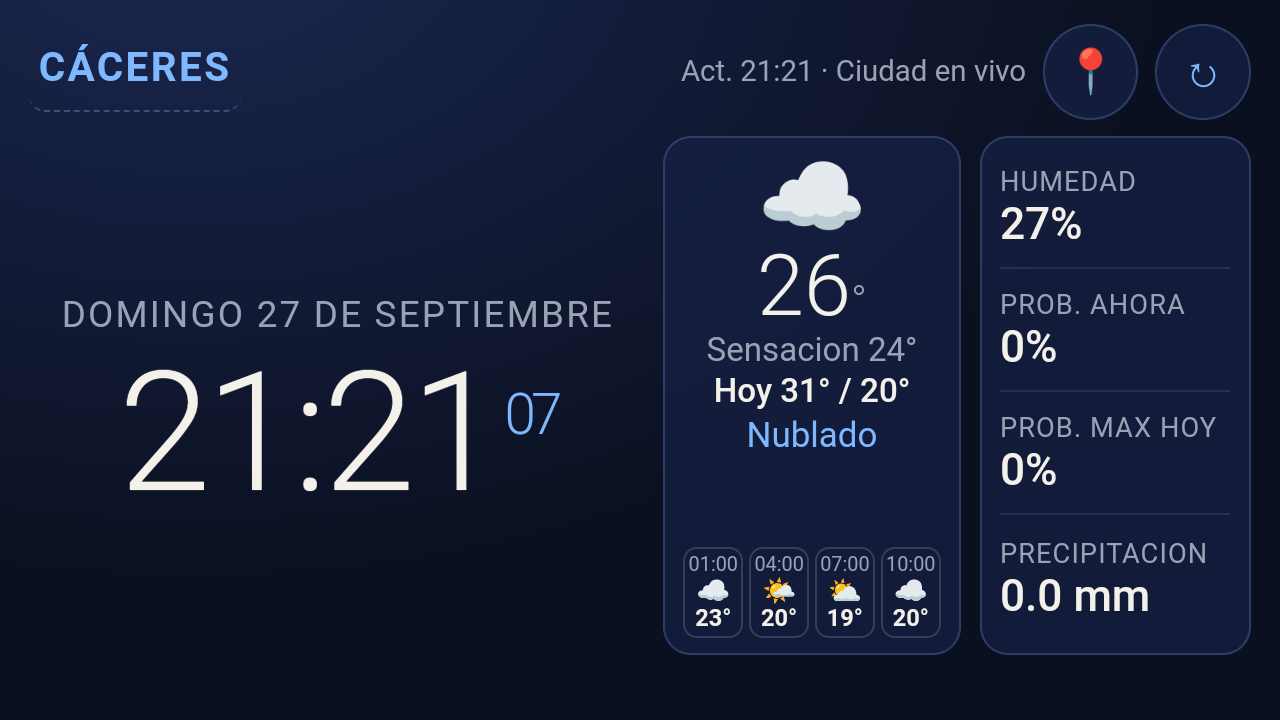
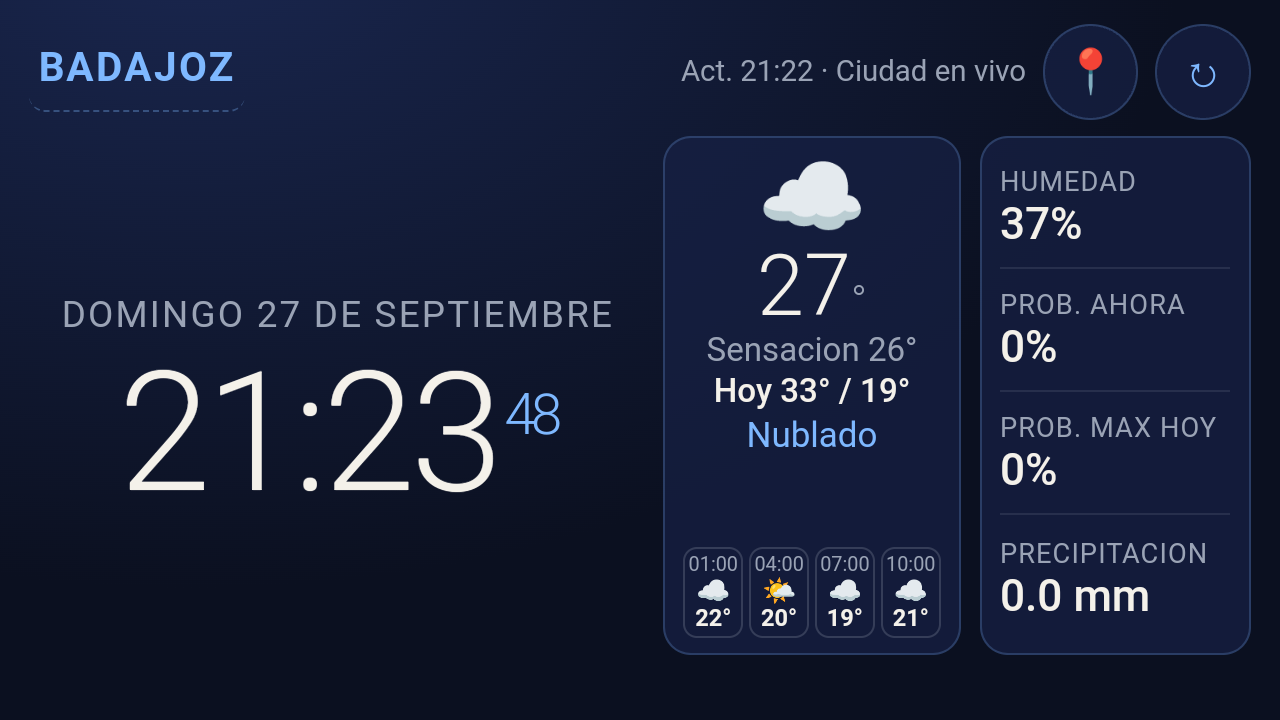
Close session: refresh preview shot, handoff and roadmap.

diff --git a/HANDOFF.md b/HANDOFF.md
@@ -1,0 +1,43 @@
+# HANDOFF — ClimaDesk
+
+Última sesión: **2026-09-27**
+
+## Estado
+- **Proyecto:** ClimaDesk (repo [kapi21/ClimaDesk](https://github.com/kapi21/ClimaDesk))
+- **Versión app:** `1.6` (`versionCode` 7) — package aún `es.redmi4x.relojclima`
+- **Hecho:**
+  - App kiosk WebView autónoma (Open-Meteo)
+  - Ubicación GPS/Wi‑Fi + ciudad manual
+  - Refresh, día/noche, cache offline, mini-pronóstico
+  - Fix overflow de horas dentro de la tarjeta de clima
+  - Repo limpio (sin `downloads/` ni `panel/`)
+  - README + captura landscape en `docs/climadesk-preview.png`
+- **Pendiente (siguiente sesión):**
+  1. Selector de ciudad con búsqueda (sustituir `prompt`)
+  2. Renombrar `applicationId` / package a algo tipo `es.climadesk.app` (implica reinstalar)
+  3. Icono launcher propio con marca ClimaDesk
+- **Archivos clave:**
+  - `kiosk-app/app/src/main/assets/index.html`
+  - `kiosk-app/app/src/main/java/es/redmi4x/relojclima/MainActivity.java`
+  - `README.md`, `docs/climadesk-preview.png`
+- **Cómo verificar:**
+  - Compilar: `cd kiosk-app` → `gradlew.bat assembleDebug`
+  - Instalar en Redmi (`6f207ef7d440`): si ADB falla por MIUI, push a `/sdcard/Download/` y aceptar instalador
+- **Riesgos / notas:**
+  - MIUI bloquea `adb install` → `INSTALL_FAILED_USER_RESTRICTED`
+  - Dos dispositivos ADB a veces: usar `-s 6f207ef7d440`
+  - `local.properties` es local (no va al repo)
+
+## Roadmap
+| Prioridad | Ítem | Notas |
+|-----------|------|--------|
+| P1 | Selector ciudad UI | Lista/autocomplete Open-Meteo geocoding |
+| P1 | `applicationId` ClimaDesk | Breaking install; actualizar label ya es ClimaDesk |
+| P2 | Icono + branding | Sustituir `ic_launcher.xml` genérico |
+| P2 | Modo solo-reloj | Ocultar stats / mini-pronóstico |
+| P3 | Kiosk duro | Autoarranque, brillo, launcher por defecto (por dispositivo) |
+| P3 | Release firmada | APK release + tag GitHub |
+
+## Dispositivo de prueba
+- Xiaomi Redmi 4X (santoni), Android 7.1.2 / MIUI
+- Serial ADB: `6f207ef7d440`

diff --git a/README.md b/README.md
@@ -93,12 +93,17 @@ El APK queda en:
 
 ---
 
-## Roadmap (ideas)
+## Roadmap
 
-- Selector de ciudad con búsqueda (sin diálogo nativo)
-- Icono y `applicationId` definitivos (`ClimaDesk`)
-- Modo “solo reloj” aún más minimalista
-- Ajustes de brillo / arranque automático según dispositivo
+| Prioridad | Qué | Estado |
+|-----------|-----|--------|
+| Hecho | Reloj + clima kiosk, GPS/ciudad, offline, día/noche, mini-pronóstico | ✅ v1.6 |
+| Siguiente | Selector de ciudad con búsqueda (sin `prompt`) | Pendiente |
+| Siguiente | `applicationId` / package definitivo `ClimaDesk` | Pendiente |
+| Luego | Icono propio, modo solo-reloj, autoarranque/brillo kiosk | Ideas |
+| Luego | APK release firmada + tag en GitHub | Ideas |
+
+Estado de desarrollo más detallado: [HANDOFF.md](HANDOFF.md).
 
 ---
 
